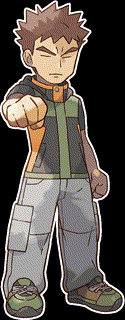
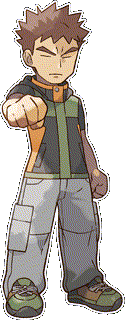
fix: lighter click shake, drop redundant Magikarp lane, fix battle sprite issues
- .click-area no longer inherits the generic button active-shake transform
  (was moving the whole button, including the Magikarp ring, not just the
  ball) — only the ball itself now does a light scale-down on press.
- Same fix for .battle-tap-area: the generic active box-shadow was leaking
  through as an ugly black border when tapping your Pokémon to attack.
- UpgradeScene no longer renders a lane of Magikarp sprites for Ajudante
  Voluntário — redundant now that HelperRing shows it around the ball.
- Regenerated brock.png/misty.png with the solid black background keyed
  out to transparency (were palette PNGs with no alpha channel — every
  other trainer portrait already had real alpha) and bumped the battle
  trainer portrait size (64px -> 88px).

diff --git a/frontend/src/index.css b/frontend/src/index.css
@@ -1426,6 +1426,17 @@ button:disabled {
   z-index: 2;
 }
 
+/* Feedback: o botão inteiro (.click-area) treme no clique/segurar porque
+   herda o `transform: translate(2px,2px)` genérico de todo botão — isso
+   arrastava o anel de Magikarp junto, não só a bola. Zera esse transform
+   aqui e deixa só a bolinha encolher (scale já não é `transform`, é uma
+   propriedade CSS separada — não afeta os filhos do jeito que translate
+   afetaria), pra ser uma mexidinha leve e só na bola. */
+.click-area:not(:disabled):active {
+  transform: none;
+  box-shadow: none;
+}
+
 .click-area:not(:disabled):active .click-ball {
   scale: 0.94;
 }
@@ -1853,9 +1864,9 @@ button:disabled {
    resto da repaginação. */
 .battle-enemy .battle-trainer-portrait {
   position: absolute;
-  top: -12px;
-  left: -18px;
-  width: 64px;
+  top: -18px;
+  left: -26px;
+  width: 88px;
   height: auto;
   image-rendering: auto;
   border: 3px solid var(--panel-border);
@@ -2010,6 +2021,15 @@ button:disabled {
   box-shadow: none;
   clip-path: none;
   padding: 0;
+}
+
+/* Feedback: aparecia uma borda preta ao clicar/segurar pra atacar — o
+   `box-shadow` genérico de todo botão no :active (button:not(:disabled):
+   active, lá em cima no arquivo) tinha mais especificidade que o reset
+   acima, então voltava a aparecer só nesse estado. */
+.battle-tap-area:not(:disabled):active {
+  box-shadow: none;
+  transform: none;
 }
 
 .battle-tap-area img {

diff --git a/frontend/src/ui/components/UpgradeScene.tsx b/frontend/src/ui/components/UpgradeScene.tsx
@@ -49,7 +49,12 @@ function seededRandom(seed: string): number {
 // enche conforme você compra mais cópias (até LANE_CAPACITY, aí ganha o
 // brilho de "completo"). Ícone reaproveita o mesmo da decisão 0028.
 export function UpgradeScene({ regionDef, region }: UpgradeSceneProps) {
-  const owned = regionDef.upgrades.filter((def) => def.kind === 'cps' && ownedCount(region, def.id) > 0)
+  // Feedback: "Ajudante Voluntário" já aparece em volta da Pokébola
+  // (ui/components/HelperRing.tsx) — a faixa cheia de Magikarp aqui no
+  // meio virou redundante pra ele, então some.
+  const owned = regionDef.upgrades.filter(
+    (def) => def.kind === 'cps' && def.id !== 'volunteer-helper' && ownedCount(region, def.id) > 0,
+  )
   if (owned.length === 0) return null
 
   return (
